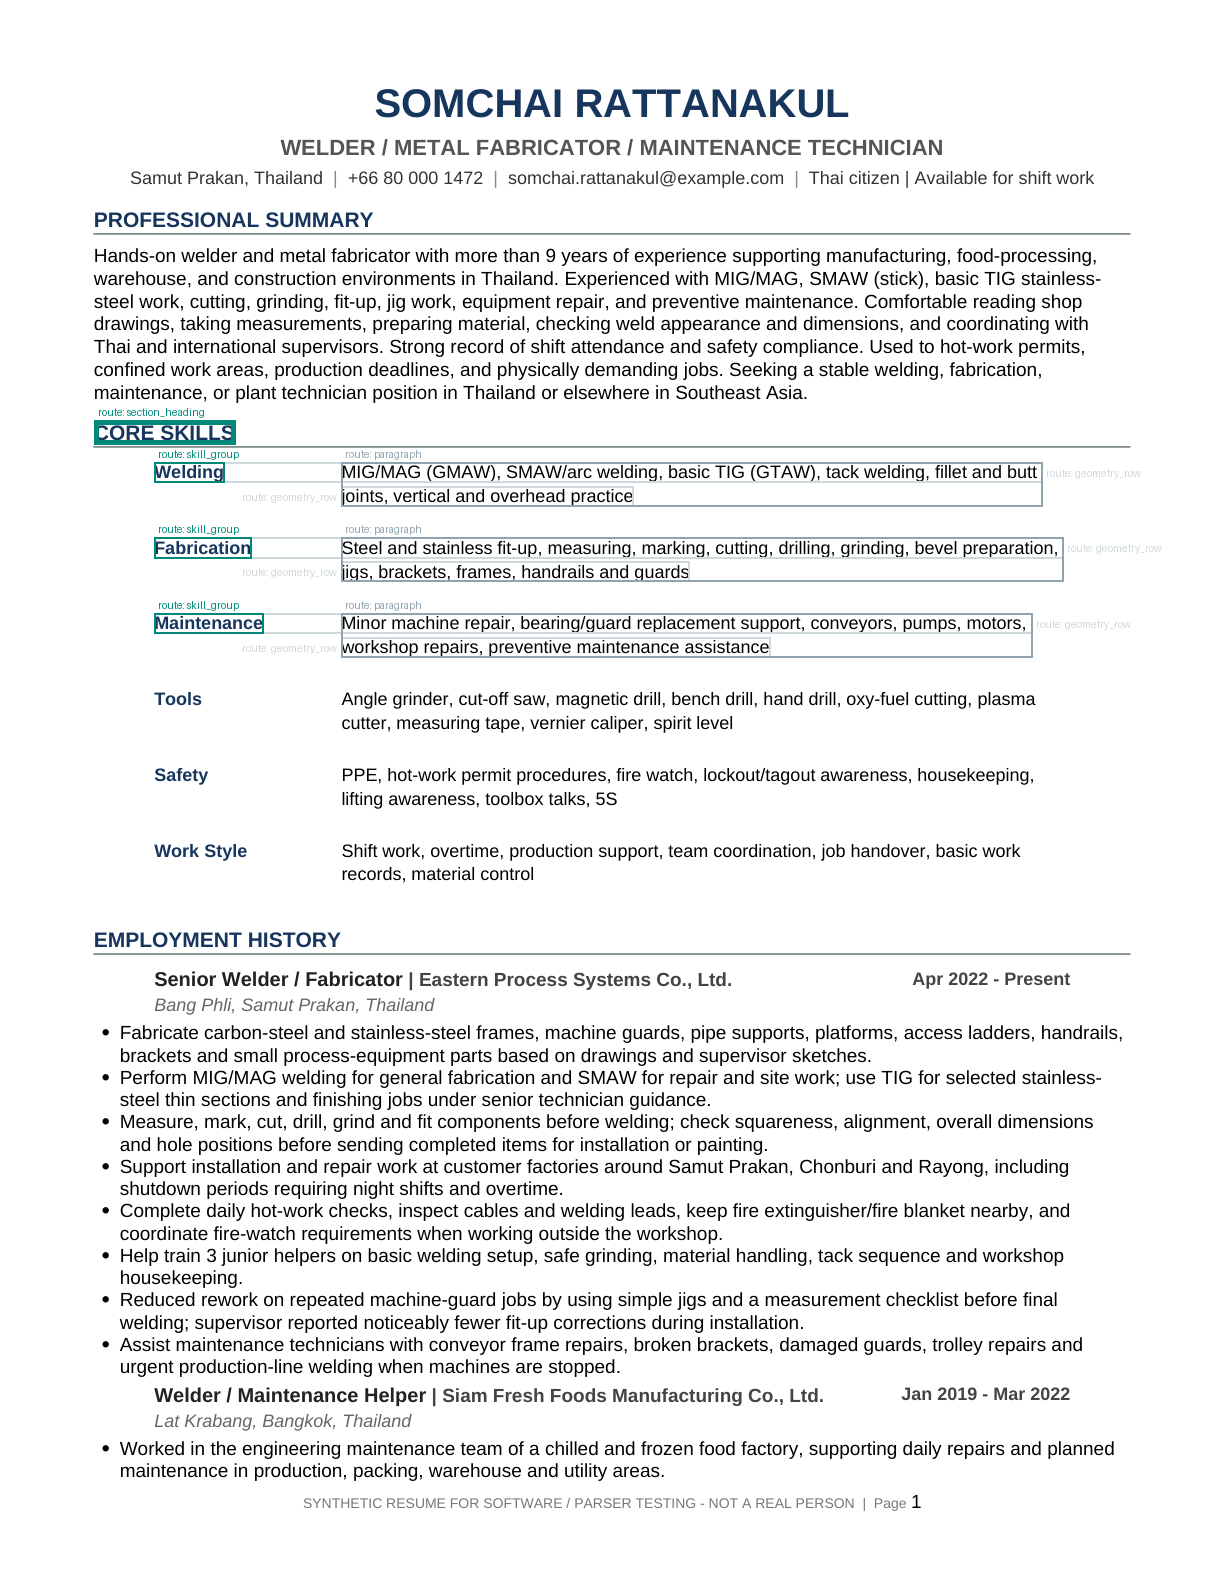
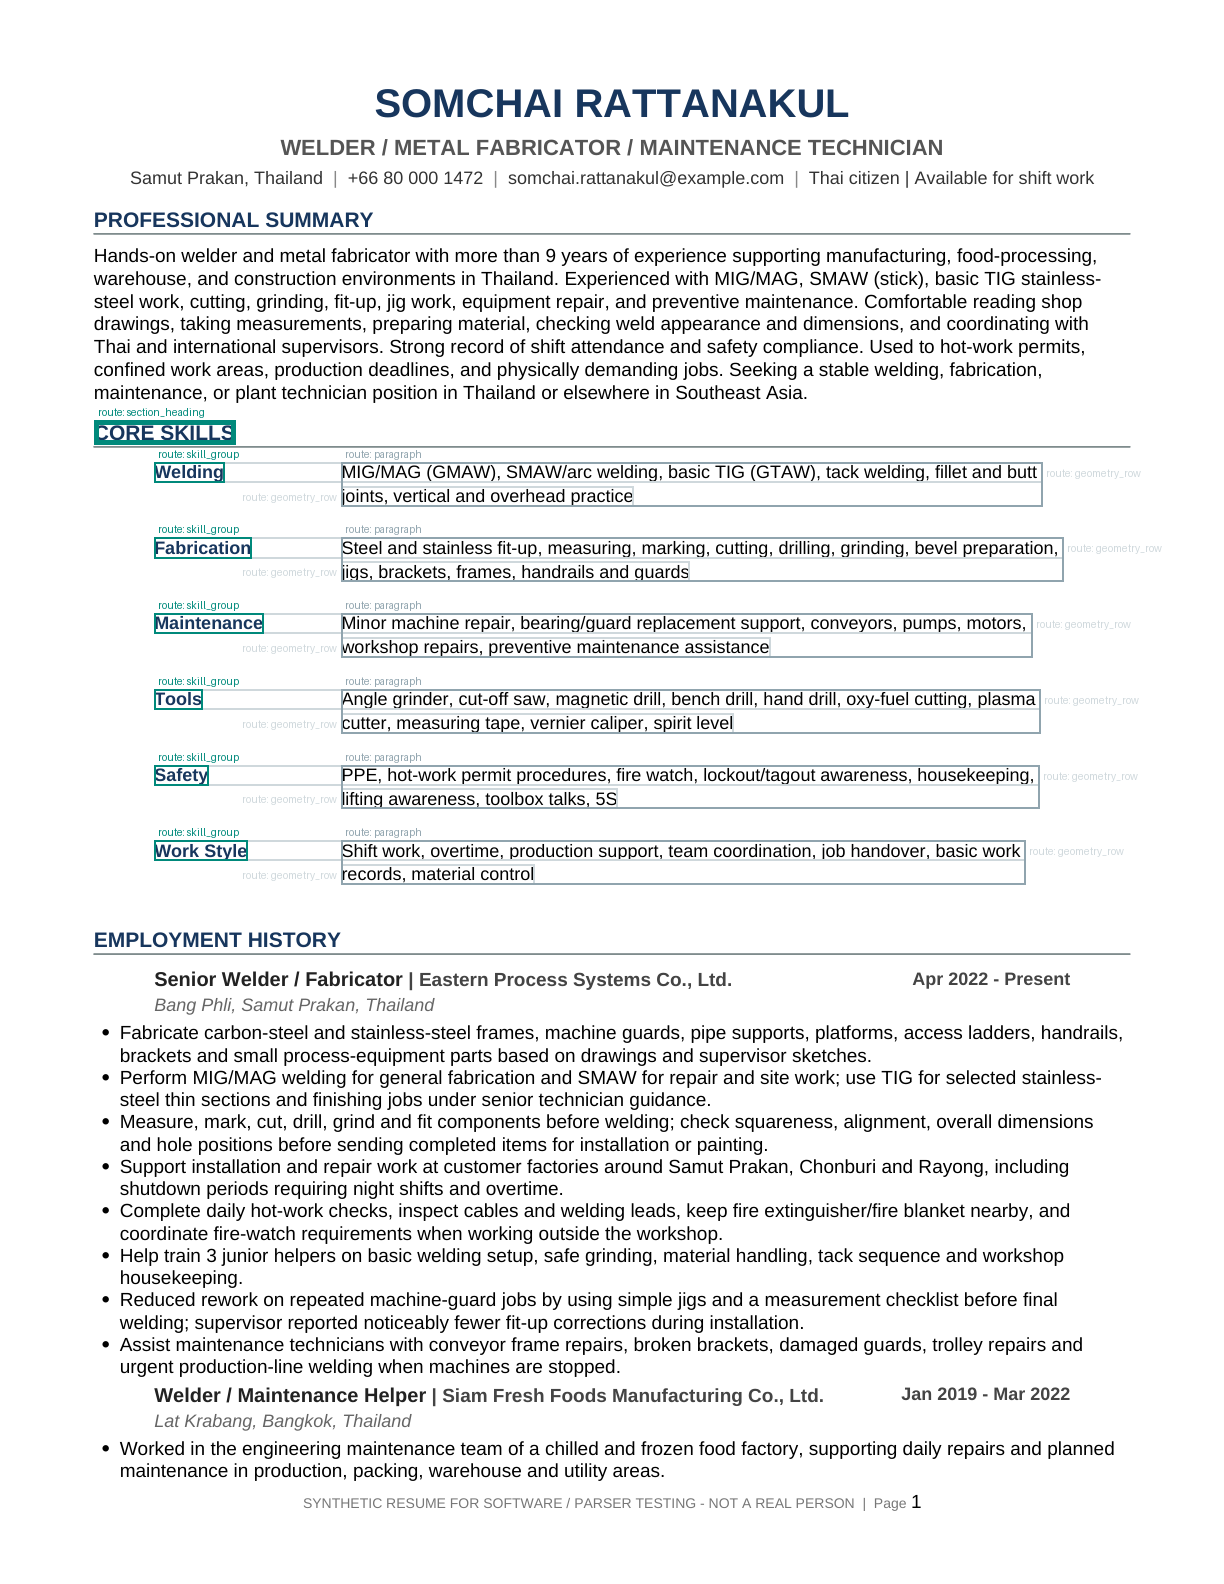
minor-update: tool exists in SECTION_REFERENCES top-level heading fix, local subheading for word tool

Changed region(s): [[0.1242, 0.4331, 0.8693, 0.5568], [0.8072, 0.5259, 0.8382, 0.5568]]

diff --git a/src/extractor_v1/routing.py b/src/extractor_v1/routing.py
@@ -105,6 +105,69 @@ def _is_reliable_section_heading(
     )
 
 
+def _shares_visual_row_with_right_content(
+    lines: list[ExtractedLine],
+    line_index: int,
+) -> bool:
+    candidate = lines[line_index]
+    candidate_box = pymupdf.Rect(candidate.bbox)
+    for other_index, other in enumerate(lines):
+        if other_index == line_index or other.page != candidate.page:
+            continue
+        other_box = pymupdf.Rect(other.bbox)
+        if other_box.x0 <= candidate_box.x1 + max(2.0, candidate.size * 0.5):
+            continue
+        vertical_overlap = min(candidate_box.y1, other_box.y1) - max(
+            candidate_box.y0,
+            other_box.y0,
+        )
+        if vertical_overlap >= min(candidate_box.height, other_box.height) * 0.45:
+            return True
+    return False
+
+
+def _is_local_subheading_candidate(
+    lines: list[ExtractedLine],
+    heading: DetectedHeading,
+    parent_heading: DetectedHeading,
+) -> bool:
+    candidate = lines[heading.line_index]
+    parent = lines[parent_heading.line_index]
+    if candidate.page < parent.page:
+        return False
+    smaller = candidate.size < parent.size * 0.98
+    indented = candidate.bbox[0] > parent.bbox[0] + max(4.0, parent.size * 0.5)
+    return (
+        smaller
+        and indented
+        and _shares_visual_row_with_right_content(lines, heading.line_index)
+    )
+
+
+def _routed_section_headings(
+    lines: list[ExtractedLine],
+    headings: list[DetectedHeading],
+    *,
+    minimum_line_index: int = 0,
+) -> list[DetectedHeading]:
+    """Keep major section boundaries while demoting geometric child labels."""
+    candidates = sorted(
+        (
+            heading
+            for heading in headings
+            if heading.line_index >= minimum_line_index
+            and _is_reliable_section_heading(lines[heading.line_index], heading)
+        ),
+        key=lambda heading: heading.line_index,
+    )
+    routed: list[DetectedHeading] = []
+    for heading in candidates:
+        if routed and _is_local_subheading_candidate(lines, heading, routed[-1]):
+            continue
+        routed.append(heading)
+    return routed
+
+
 def _section_body_style(
     content_lines: list[ExtractedLine],
 ) -> tuple[float, bool]:
@@ -227,14 +290,10 @@ def build_sections(
     first_boundary = first_header_boundary(lines, headings)
     if first_boundary is None:
         return []
-    routed_headings = sorted(
-        (
-            heading
-            for heading in headings
-            if heading.line_index >= first_boundary.line_index
-            and _is_reliable_section_heading(lines[heading.line_index], heading)
-        ),
-        key=lambda heading: heading.line_index,
+    routed_headings = _routed_section_headings(
+        lines,
+        headings,
+        minimum_line_index=first_boundary.line_index,
     )
 
     sections: list[dict[str, Any]] = []
@@ -443,13 +502,7 @@ def build_experience_debug(
     ner_model: DistilBertNerPredictor,
     url_entities_by_line: dict[int, list[dict[str, Any]]],
 ) -> dict[str, Any] | None:
-    routed = sorted(
-        (
-            heading for heading in headings
-            if _is_reliable_section_heading(lines[heading.line_index], heading)
-        ),
-        key=lambda item: item.line_index,
-    )
+    routed = _routed_section_headings(lines, headings)
     position = next((i for i, item in enumerate(routed) if item.section_type == "experience"), None)
     if position is None:
         return None
@@ -741,13 +794,7 @@ def build_education_debug(
     url_entities_by_line: dict[int, list[dict[str, Any]]],
 ) -> dict[str, Any] | None:
     """Reconstruct education entries from visual rows and grounded entities."""
-    routed = sorted(
-        (
-            heading for heading in headings
-            if _is_reliable_section_heading(lines[heading.line_index], heading)
-        ),
-        key=lambda item: item.line_index,
-    )
+    routed = _routed_section_headings(lines, headings)
     position = next((i for i, item in enumerate(routed) if item.section_type == "education"), None)
     if position is None:
         return None
@@ -1064,13 +1111,7 @@ def build_skills_debug(
     url_entities_by_line: dict[int, list[dict[str, Any]]],
 ) -> dict[str, Any] | None:
     """Preserve skill prose and attach vertical bullets to geometric groups."""
-    routed = sorted(
-        (
-            heading for heading in headings
-            if _is_reliable_section_heading(lines[heading.line_index], heading)
-        ),
-        key=lambda item: item.line_index,
-    )
+    routed = _routed_section_headings(lines, headings)
     position = next((i for i, item in enumerate(routed) if item.section_type == "skills"), None)
     if position is None:
         return None
